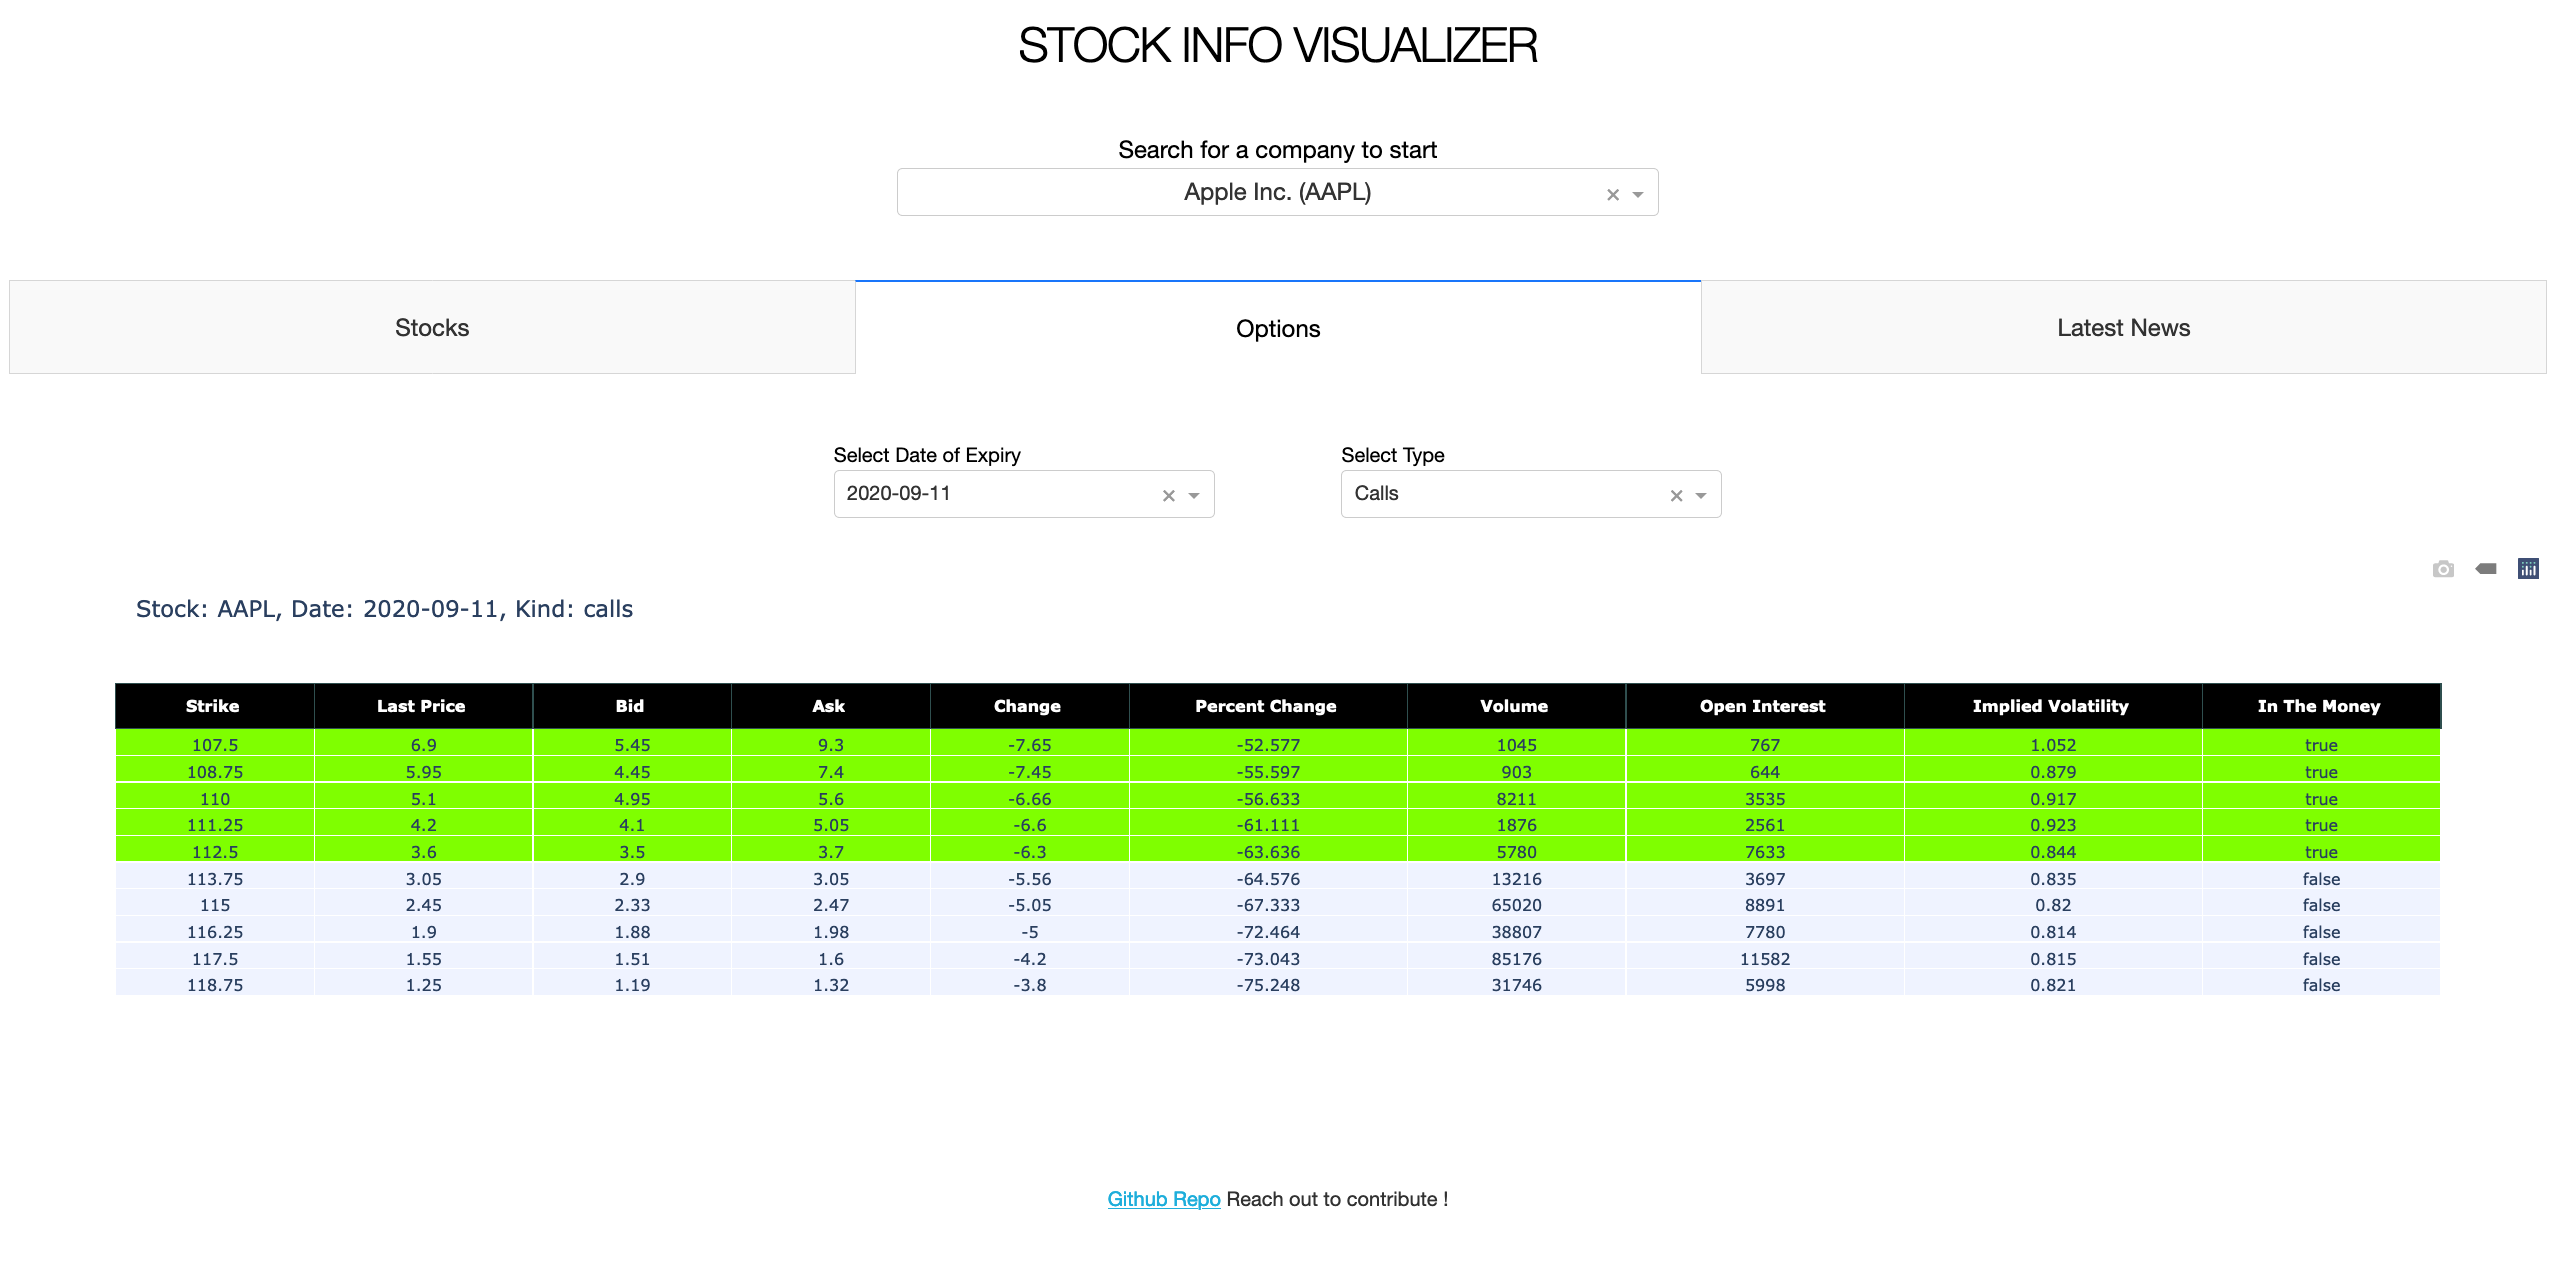
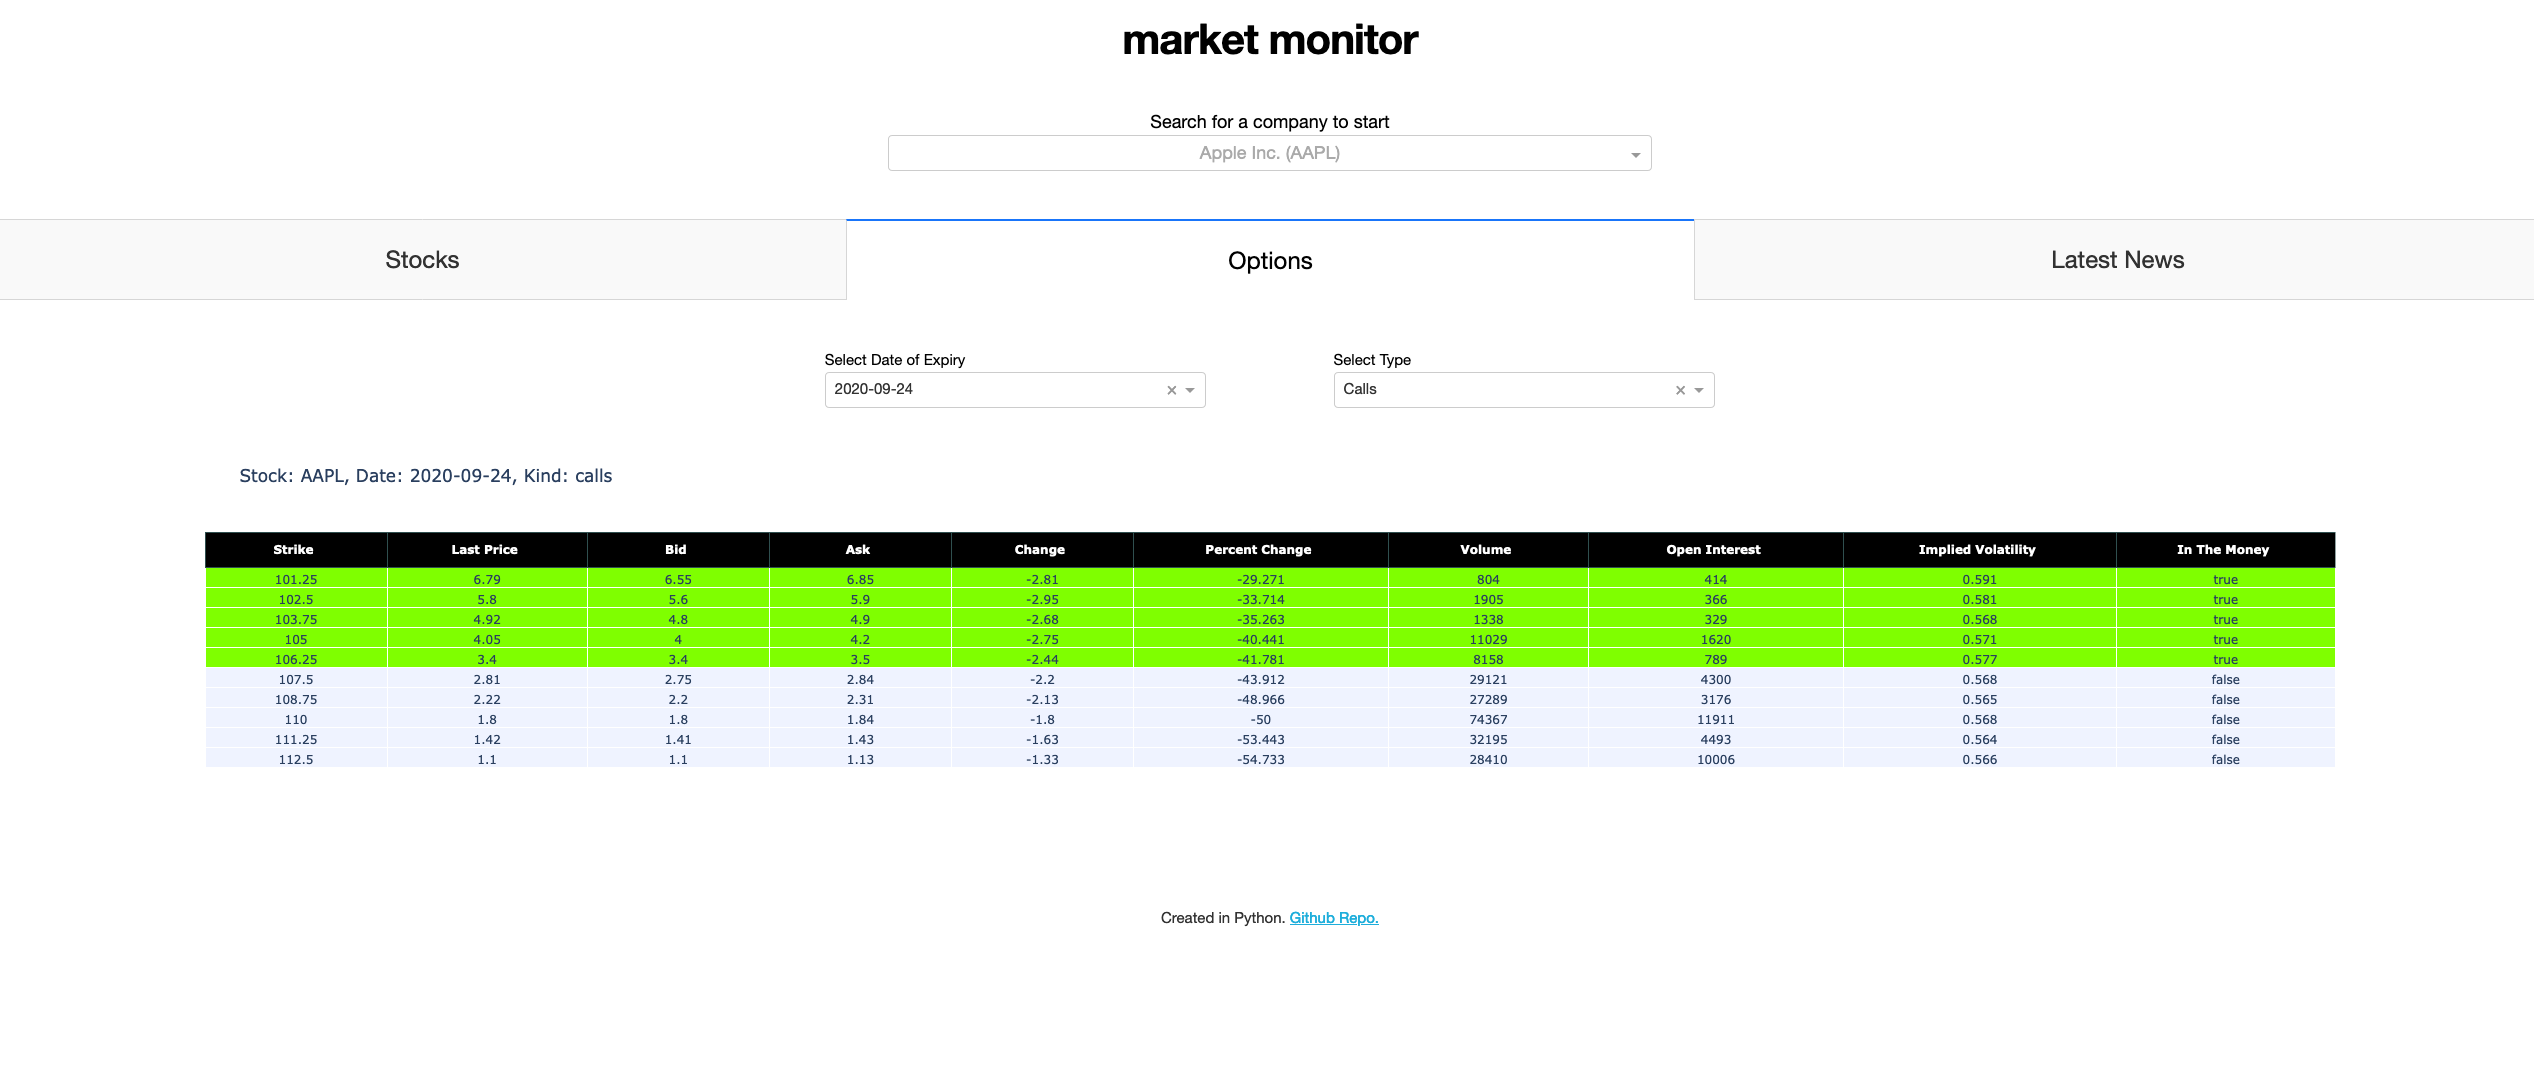
updated images

diff --git a/stock_chart_app.py b/stock_chart_app.py
@@ -32,7 +32,7 @@ app.layout = html.Div(
              ],
             style={"color": colors["text"],
                    "textAlign": "center",
-                   "fontSize": 14,
+                   "fontSize": 18,
                    "width": '30%',
                    "padding-left": "35%"}
         ),
@@ -123,7 +123,7 @@ app.layout = html.Div(
                 ),
                 html.Br(),
                 html.Br(),
-                dcc.Graph(id="options-table"),
+                dcc.Graph(id="options-table", style={"padding-left": "5%", "padding-right": "5%"}),
             ]),
             dcc.Tab(label='Latest News', children=[
                 html.Br(),
@@ -133,7 +133,7 @@ app.layout = html.Div(
                     style={"white-space": "pre", "padding-left": "5%", "width": "15%", "fontSize": 18,}
                 ),
             ]),
-        ], style={"fontSize": 24, "font-weight": "bold"}
+        ], style={"fontSize": 24}
         ),
         html.Br(),
         dcc.Markdown(
